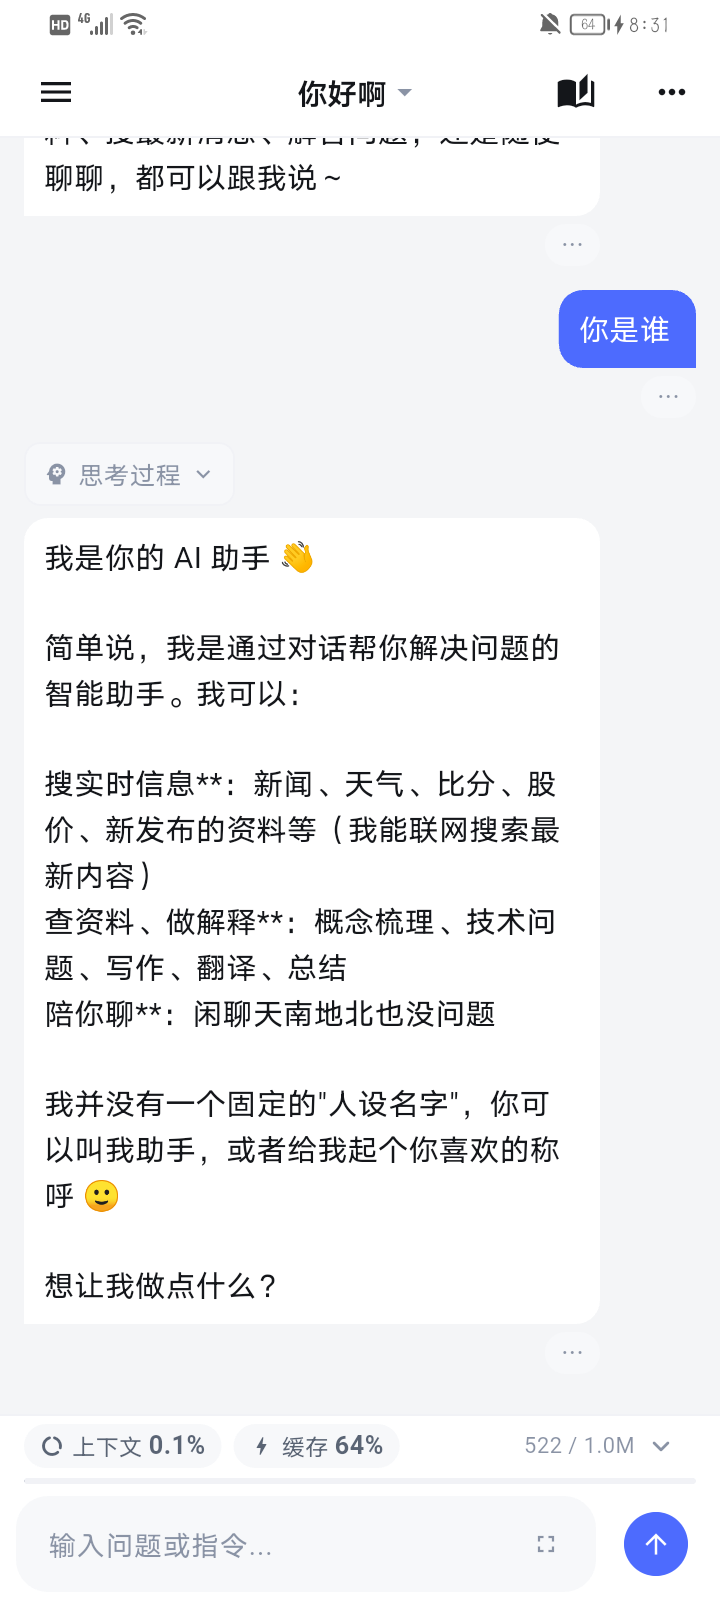
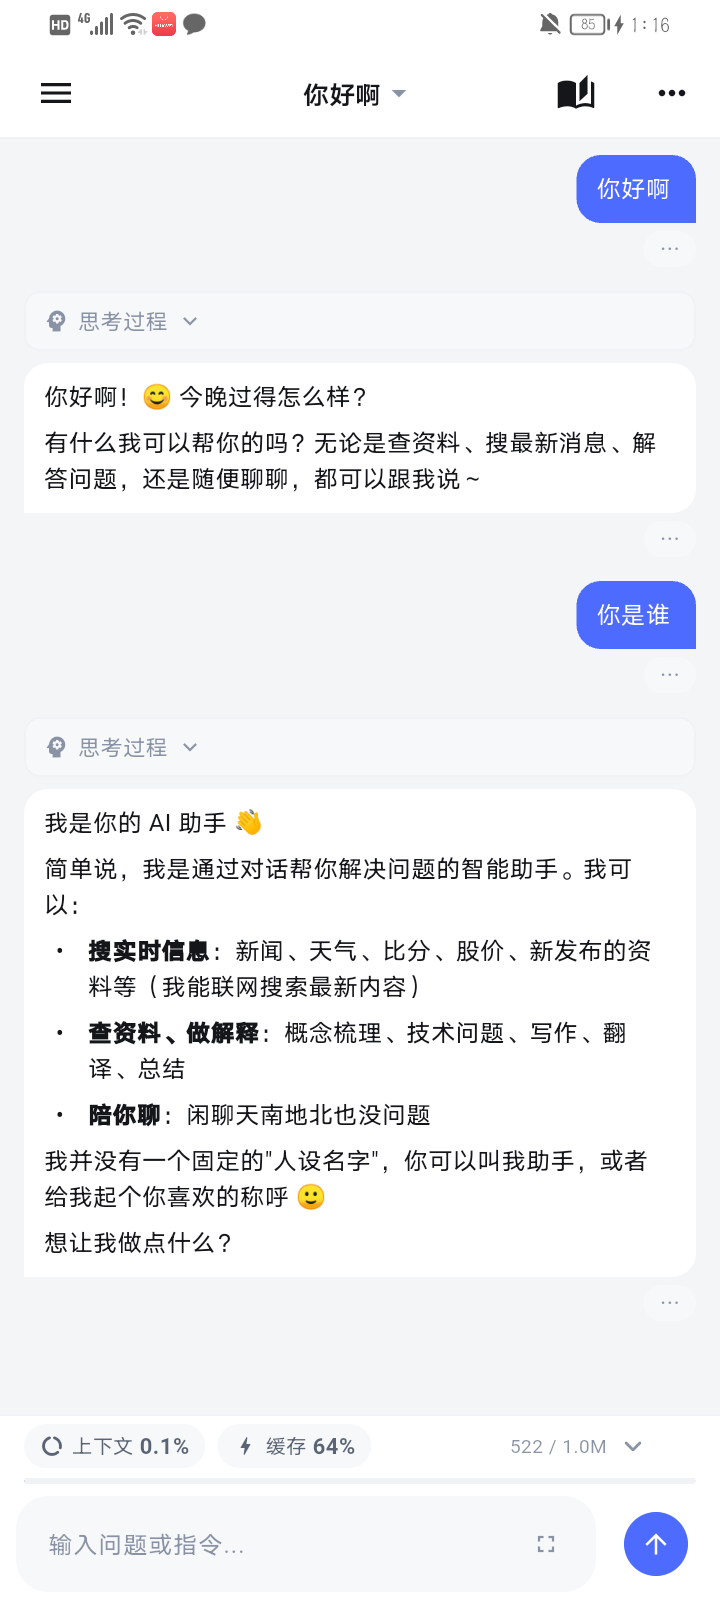
docs: 更新 README 及新增界面预览截图，完善功能说明

diff --git a/README.md b/README.md
@@ -28,7 +28,7 @@
 
 - **移动端（Flutter）**：日常写作入口。对接 DeepSeek 流式对话与联网搜索，支持大纲生成、章节写作/改写、
   灵感推演、AI 对战、角色对话、文字 TRPG、听书（本地 TTS）。
-- **Web 控制台（Vue 3）**：数据台。24 张表全部可浏览/搜索/编辑，支持会话查看、同步与备份、
+- **Web 控制台（Vue 3）**：数据台。31 张表（deepseek 24 + novel 7）全部可浏览/搜索/编辑，支持会话查看、同步与备份、
   情节素材库（RAG）、B站视频转文字、Agent 面板与下载库。
 - **服务端（Spring Boot + Spring AI）**：多设备数据同步（设备间物理隔离）+ Agent 运行时
   （SSE 事件、断线重连、进程重启恢复、工具调用）+ 写作 AI + RAG 检索。
@@ -40,32 +40,97 @@
 
 ## 界面预览
 
+### Agent：提问 → 工具调用 → 任务清单 → 回答
+
+Agent 面板支持流式回答、思考过程、工具调用卡片（可展开查看完整入参与返回）、向用户提问、
+多步任务清单，以及上下文占用与缓存命中展示。下图为一次真实会话：Agent 先反问题材方向，
+再用 `plan_task` 拆出三步计划、用 `search_rag` 检索参考桥段，最后汇总建议。
+
+![Agent 面板：提问、工具调用与任务清单](docs/screenshots/web-agent-conversation.png)
+
 <table>
   <tr>
-    <td align="center" width="33%">
-      <img src="docs/screenshots/app-home.png" width="230"/><br/>
-      <sub>移动端 · 新对话</sub>
+    <td align="center" width="50%">
+      <img src="docs/screenshots/web-agent-ask.png"/><br/>
+      <sub>提问卡 · 给出候选题材方向，也可以自己输入</sub>
     </td>
-    <td align="center" width="33%">
-      <img src="docs/screenshots/app-chat.png" width="230"/><br/>
-      <sub>移动端 · 流式对话 / 思考过程 / 上下文与缓存</sub>
+    <td align="center" width="50%">
+      <img src="docs/screenshots/web-agent-task.png"/><br/>
+      <sub>任务清单 · 步骤状态实时更新，3/3 完成</sub>
     </td>
-    <td align="center" width="33%">
-      <img src="docs/screenshots/app-writing-settings.png" width="230"/><br/>
-      <sub>移动端 · 写作 AI 设置</sub>
+  </tr>
+  <tr>
+    <td align="center" width="50%">
+      <img src="docs/screenshots/web-agent-tool-detail.png"/><br/>
+      <sub>工具调用 · 展开可见 query / tags 与返回结果</sub>
+    </td>
+    <td align="center" width="50%">
+      <img src="docs/screenshots/web-agent-panel.png"/><br/>
+      <sub>Agent 面板 · 建议指令与 14 个可用工具</sub>
     </td>
   </tr>
 </table>
+
+### 情节素材库（RAG）
+
+小说 txt 先做格式检测与章节结构化，再按「情节弧」切窗口（默认 12000 字、重叠 1500 字），
+DeepSeek 并行提炼可复用情节，跨窗口去重后由百炼 embedding 写入 Elasticsearch，检索时走 kNN。
 
 <table>
   <tr>
     <td align="center" width="50%">
       <img src="docs/screenshots/web-rag.png"/><br/>
-      <sub>Web 控制台 · 情节素材库（RAG 检索与仿写）</sub>
+      <sub>素材库 · 已入库 774 条情节，导入与检索入口</sub>
+    </td>
+    <td align="center" width="50%">
+      <img src="docs/screenshots/web-rag-search.png"/><br/>
+      <sub>语义检索 · 按相似度排序，带标签与摘要</sub>
+    </td>
+  </tr>
+</table>
+
+### 移动端
+
+聊天、写小说、灵感推演与 AI 对战都在一个 App 里完成。
+
+<table>
+  <tr>
+    <td align="center" width="33%">
+      <img src="docs/screenshots/app-chat.png" width="230"/><br/>
+      <sub>对话 · 流式输出 / 思考过程 / 联网来源 / 上下文与缓存</sub>
+    </td>
+    <td align="center" width="33%">
+      <img src="docs/screenshots/app-writing-home.png" width="230"/><br/>
+      <sub>写小说 · 9 个写作功能入口</sub>
+    </td>
+    <td align="center" width="33%">
+      <img src="docs/screenshots/app-outline-generate.png" width="230"/><br/>
+      <sub>一键生成大纲 · 题材 / 主题 / 主角 / 世界观 / 事件规模</sub>
+    </td>
+  </tr>
+  <tr>
+    <td align="center" width="50%">
+      <img src="docs/screenshots/app-inspiration.png" width="300"/><br/>
+      <sub>小说灵感 · 对话推进剧情，并行推演多段正文，可展开 / 选择 / 朗读 / 采用</sub>
+    </td>
+    <td align="center" width="50%">
+      <img src="docs/screenshots/app-battle.png" width="300"/><br/>
+      <sub>AI 写战斗 · 输入双方技能 / 场景 / 结果，生成战斗场面</sub>
+    </td>
+  </tr>
+</table>
+
+### Web 控制台
+
+<table>
+  <tr>
+    <td align="center" width="50%">
+      <img src="docs/screenshots/web-agent-settings.png"/><br/>
+      <sub>Agent 设置 · 模型 / 思考深度 / 联网搜索 / 上下文窗口</sub>
     </td>
     <td align="center" width="50%">
       <img src="docs/screenshots/web-downloads.png"/><br/>
-      <sub>Web 控制台 · Agent 下载库</sub>
+      <sub>下载库 · Agent 通过工具保存的文件</sub>
     </td>
   </tr>
 </table>
@@ -74,20 +139,56 @@
 
 ## 核心亮点
 
-- **事件驱动的 Agent 运行时**：`session → message → run → event` 全量持久化，SSE 事件带自增 `seq`，
-  前端断线后按 `seq` 回放，不重不漏；支持进程重启恢复、用户取消、会话单飞。
-- **长上下文工程**：面向 1M 窗口的检查点式压缩（阈值 `min(W×0.8, W−64K)`，保留最近 16% 原文，
-  检查点落库），长会话不再按轮数硬截断。
-- **前缀缓存优化**：系统提示稳定化、工具定义排序、变化内容后置；同一会话第二轮缓存命中
-  **2816 / 3010 ≈ 93.6%**，并在界面上展示会话累计与单条消息的命中率。
-- **工具平台**：基于 Spring AI `@Tool` 注册 14 个工具，覆盖数据查询、RAG、大纲/章节生成、任务计划、
-  向用户提问、联网搜索、文件下载；写操作自动落库。
-- **多设备数据隔离**：每台设备在服务端有独立的库与变更日志，A 设备的数据物理上不会进入 B 设备，
-  同一 ID 的行也不会互相覆盖。
-- **USB 隧道同步**：服务端自动用 `adb reverse` 把手机的 `127.0.0.1:3210` 接到电脑；
-  手机端按「USB 隧道 → 历史地址 → 热点网关 → UDP 广播 → 网段扫描」逐级兜底。
-- **安全边界**：敏感列剔除与打码、下载工具 SSRF 防护（仅 http/https、拒绝内网）、
-  文件大小与分页限制、事件文本截断。
+工程实现集中在 Agent 运行时与 LLM 应用层，下面的数字都来自本地真实运行和真实 API 对照，不是估算。
+
+- **Agent 运行时：事件驱动、可回放、可恢复**
+  `session → message → run → event` 四层持久化，每轮 run 通过 SSE 推送带自增 `seq` 的事件
+  （message / tool / task / ask / stage / download / usage / done）。前端断线后按 `seq` 回放，
+  不重不漏；服务重启时扫描未完成的 run，用 journal + checkpoint 续跑；支持用户取消与会话单飞。
+  run 跑在虚拟线程上，进程内信号量限制 8 个并发，单轮最多 8 次模型请求。
+
+- **Function Calling：14 个工具的统一注册与编排**
+  用 Spring AI 的 `@Tool` 注解生成 JSON Schema，集中到 `AgentToolCatalog`：数据只读查询 3 个、
+  RAG 2 个、写作 4 个（生成的大纲/章节自动落库）、任务计划 2 个、向用户提问 1 个、联网搜索 1 个、
+  下载 1 个。前端把每次调用渲染成可展开的工具卡，完整展示入参与返回，而不是只显示"正在调用"。
+
+- **Human-in-the-loop：`ask_user` 阻塞式提问**
+  需要用户拍板时，工具在虚拟线程里挂起等待，最长 5 分钟；前端弹出选项卡（支持自定义输入），
+  提交后唤醒 run 继续执行。提问和回答都进入事件流，断线重连或进程重启后依然能恢复。
+
+- **多步任务：`plan_task` + `update_task_step`**
+  Agent 把复杂任务拆成有状态的步骤清单，每次工具调用回写步骤状态；前端任务卡实时显示
+  完成进度（如 3/3）。任务落库，重启后按库里的状态继续，而不是让用户从头再说一遍。
+
+- **1M 上下文：检查点式压缩**
+  阈值取 `floor(min(W×0.8, W−输出预留−65536))`，保留最近 `(W−输出预留)×16%` 原文；
+  只压缩"检查点之后、保留段之前"的消息，用一次非流式调用生成结构化检查点
+  （用户目标 / 已确认事实 / 已完成 / 约束）写回 `agent_sessions.summary`。
+  支持多次压缩合并旧检查点，压缩失败不阻断对话。
+
+- **前缀缓存：把成本优化成可验证的数字**
+  系统提示只放稳定内容、工具定义按名称排序、当前时间后置到最后一条用户消息，让大段固定内容
+  始终位于前缀。接入 `stream_options.include_usage`，解析 `prompt_cache_hit_tokens`
+  （兼容 `prompt_tokens_details.cached_tokens`）。同一会话第二轮命中
+  **2816 / 3010 ≈ 93.6%**，两轮累计 5632 / 6010 ≈ 93.7%；面板同时展示会话累计、
+  最近一次和单条消息的命中率。
+
+- **自研 OpenAI 兼容流式客户端**
+  没有用 Spring AI 托管的 ChatClient（只用它的 `@Tool` 生成 schema）：自己解析
+  `delta / reasoning_content / tool_calls` 分片与 usage；首 token 前失败自动重试，
+  首 token 后不重试，避免重复内容；工具调用按 index 累积后一次性执行；支持取消与超时。
+
+- **联网搜索缓存 0 命中的排查**
+  普通回答命中 64%~74%，联网搜索回答却恒为 0。定位到第二阶段"重建历史 + 删掉 tools +
+  时间注记位置不一致"导致前缀失配，改为"复用第一阶段消息快照 + 保留 tools + 搜索结果尾部追加
+  + 指令约束 + 兜底重试"，真实 API 命中从 **0 → 256/416**；过程中还发现
+  `tool_choice: none` 会让服务端把 tools 从提示词里剥离（输入 354 → 86 tokens）。
+
+- **RAG：从整本小说到可检索情节**
+  自研 `RagDocumentParser`：格式检测 → 段落重建 → 章节识别 → 情节弧窗口（按章组窗、绝不跨章、
+  句边界重叠）；窗口并行提炼（带续接状态）→ 跨窗口 bigram / Jaccard 去重 → 百炼 1024 维 embedding
+  → Elasticsearch `dense_vector` kNN。当前素材库 774 条、80 个标签，Agent 通过 `search_rag`
+  只读调用把结果作为后续写作的参考桥段；完整流程见下方「情节素材库（RAG）」。
 
 ---
 
@@ -97,11 +198,85 @@
 | --- | --- |
 | 对话 | DeepSeek 流式问答、Markdown 渲染、思考过程折叠、联网搜索来源、上下文占用与缓存命中展示、会话历史 |
 | 小说写作 | 大纲生成（分阶段）、大纲编辑与格式校验、章节写作/改写、灵感推演（并行候选 + 合并）、AI 对战、听书 TTS |
+| 情节素材库（RAG） | txt 导入与预览、格式/章节识别、情节弧窗口切分、并行提炼、跨窗口去重、embedding + kNN 检索与仿写 |
 | 游戏 | 角色对话、文字 TRPG、小说互动游戏 |
 | 数据同步 | 多设备隔离、增量同步、冲突留档、`.db` 导入导出、USB / 局域网自动发现 |
-| Web 控制台 | 总览、会话、24 张表通用数据浏览器、同步与备份、情节素材库、B站视频转文字、下载库、Agent 面板 |
+| Web 控制台 | 总览、会话、31 张表通用数据浏览器、同步与备份、情节素材库、B站视频转文字、下载库、Agent 面板 |
 | Agent | 14 个工具、任务计划、向用户提问、SSE 实时渲染、断线重连与恢复、会话级设置与用量统计 |
 | 应用更新 | 更新公告、APK 下载与版本隔离 |
+
+---
+
+## 情节素材库（RAG）
+
+这里不是"切块后直接丢向量库"：先把小说解析成结构化文本，再按情节弧切窗口、并行提炼、
+跨窗口去重，最后才 embedding 入库。
+
+### 1. 导入与预览
+
+- 支持 UTF-8 / GB18030 编码的 txt，单次最多 200 万字；
+- `analyze` 阶段只做解析与分块，不调用模型：先告诉用户识别到几章、几个窗口，
+  调整窗口/重叠字数后可 `resplit` 重新预览，确认后 `start` 才真正提炼；
+- 任务、每个窗口的原文与模型原始输出都保存在服务端，切走页面后可通过 `/api/rag/jobs` 恢复进度。
+
+### 2. 文本清洗与段落重建
+
+- 统一换行，去掉 BOM、NUL，剥离混入的 HTML 标签，合并连续空格与多余空行；
+- 自动判断三种排版：空行分段、单换行分段（一行一段的网文）、整篇无换行；
+- 整篇无换行时先按句末标点切句再组段；超过 1800 字的长段落也先按句子切开，
+  保证窗口落在句子边界而不是半句话中间。
+
+### 3. 章节识别
+
+- 三类标题模式从强到弱：`第X回/章/节`、`Chapter N`、`数字标题`；
+- 至少命中 3 处才认为识别到章节；数字标题还要求编号单调递增，避免把列表项误判成章节；
+- 章节标题前若有 ≥100 字内容，单独作为「前言」；
+- 识别到章节就按「章」组窗口，**绝不跨章切**；没有章节时按段落组窗口。
+
+### 4. 情节弧窗口（文本切分核心）
+
+- 目标窗口默认 12000 字，可调 4000~30000；相邻窗口重叠默认 1500 字，上限 `min(5000, 窗口/2)`；
+- 重叠前缀尽量从句子开头截取，保证跨窗口的完整情节至少在一个窗口里完整出现；
+- 单个窗口最多 12 章；单章超过 2 倍窗口时，在章内部按句末标点再切，标题标成「（续 N）」；
+- 最多 400 个窗口，超过直接拒绝导入，避免一次任务把模型调用打爆。
+
+### 5. 并行提炼（DeepSeek）
+
+- 各窗口并行提炼，并发默认 4（可调 1~8）；每个窗口的 prompt 带上全书窗口数、当前章节范围，
+  以及上一批最后一个情节的摘要作为「续接状态」；
+- 输出严格 JSON：title / plot（200~450 字）/ excerpt（原文 120~300 字）/ tags（3~6 个）/
+  characters / sceneType / emotion / reusable（可复用的戏剧结构）；
+- 规则要求"宁少勿滥，每段 1~5 条"、"不虚构原文没有的事实"、"开头/结尾不完整的情节不要硬造结局"；
+- 提炼温度 0.25，单窗口失败最多重试 3 次（退避 0.8s / 1.6s），仍失败则整个任务报错并标出窗口序号。
+
+### 6. 跨窗口合并去重
+
+- 对标题和 plot 做字符 bigram + Jaccard 相似度；
+- 标题相似度 ≥ 0.80 且 plot ≥ 0.45，或 plot ≥ 0.82，判定为重复并合并；
+- 合并后上限 3000 条，超限直接报错，避免一次导入写出过大的索引。
+
+### 7. Embedding 与 Elasticsearch 入库
+
+- embedding 文本不是只取 plot，而是「标题 + 情节 + 标签 + 人物 + 场景 + 情绪 + 可复用结构」拼接，
+  检索时结构信息也参与相似度计算；
+- 阿里百炼 `qwen3.7-text-embedding-flash`，1024 维，批量 8 条一次请求；
+- 按作品先删后写：`_delete_by_query` 清掉同书旧数据，再用 `_bulk?refresh=true` 批量写入；
+- 索引 mapping：title / plot / excerpt / reusable 用 `ik_max_word`（无 ik 插件时自动回退 standard），
+  tags / characters / sceneType / emotion / book 用 keyword，
+  embedding 是 `dense_vector(dims=1024, similarity=cosine)`，单分片、0 副本。
+
+### 8. 检索与仿写
+
+- 查询文本先 embedding，再走 ES kNN：`k ≤ 30`、`num_candidates = max(50, k×10)`，
+  标签用 `terms` 过滤，返回按相似度排序的情节；
+- 仿写时把参考情节的「结构 / 冲突节奏 / 情绪曲线」交给 DeepSeek（temperature 0.9，8192 输出），
+  硬性要求不照抄句子、不复用参考中的人名与具体事件；
+- Agent 里的 `search_rag` / `rag_status` 就是这两个能力的只读封装：先检索，再基于参考桥段继续写。
+
+### 9. 设置与持久化
+
+- 窗口字数、重叠字数、并发数、「分块后是否手动开始提炼」保存在 `data/rag/settings.json`（原子落盘）；
+- 当前素材库：774 条情节、1 部作品、80 个标签；Elasticsearch 在线时状态页会实时显示索引信息。
 
 ---
 
@@ -267,6 +442,7 @@ npm run build    # 产物由服务端同源托管
 - 单机部署，进程内并发上限 8；run / ask 注册表在内存中，重启恢复是单机语义。
 - 暂无多租户与 RBAC，身份依赖客户端自报的 `x-device-id` + 可选全局令牌。
 - 写类工具（生成大纲 / 章节）暂未接入人工审批。
+- RAG 索引是服务端全局的（按作品名区分），不按设备或用户隔离；未配置 `DASHSCOPE_API_KEY` 时只能浏览已有素材，不能检索或导入。
 - 暂无 CI/CD 与 Agent 评测集。
 
 ---
